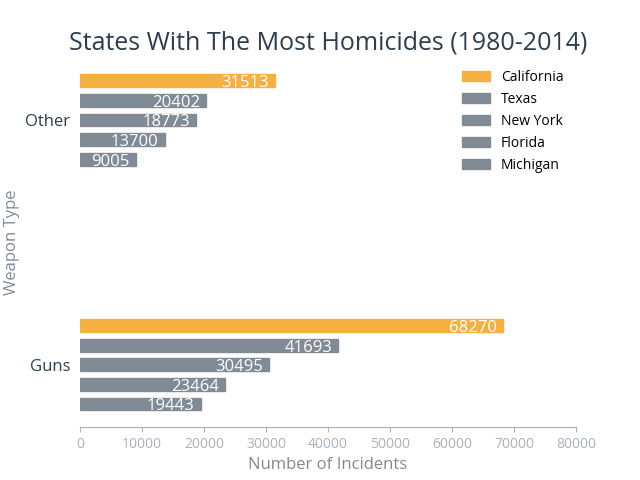
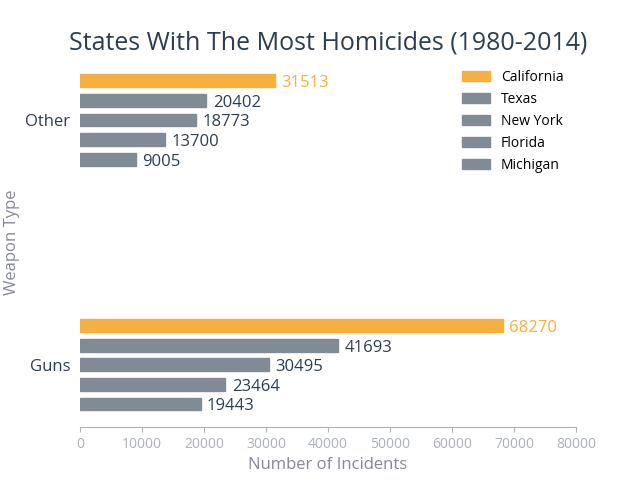
Added to the readme and fixed up some examples

diff --git a/explore.py b/explore.py
@@ -81,26 +81,26 @@ values = state_values
 
 
 #Labels
-#fig, ax = hplt.create_plot()
+fig, ax = hplt.create_plot()
 #hplt.barh(labels, values, highlight='California', bar_labels=values)
 #hplt.show()
 
-#hplt.barh(labels, values, highlight='California', bar_labels='%')
-#hplt.show()
+hplt.barh(labels, values, highlight='California', bar_labels='%', bar_labels_pos='in')
+hplt.show()
 
 #2d example
 #fig, ax = hplt.create_plot()
 #hplt.barh(['Group 1', 'Group 2'], [[1,2,3], [5,4,3]], highlight='Group 1')
 #hplt.show()
 
-#labels = weapon_labels
-#values = state_weapon_values #2d array [[1, 2, 3], [3, 2, 1]]
-#hplt.barh(labels, values, highlight=[[4],[4]], bar_labels=values, bar_labels_pos='in')
-#hplt.title("States With The Most Homicides (1980-2014)")
-#hplt.ylabel("Weapon Type")
-#hplt.xlabel("Number of Incidents")
-#hplt.legend(['medium','medium','medium','medium','primary'], ['Michigan', 'Florida', 'New York', 'Texas', 'California'], loc='upper right', layout='v')
-#hplt.show()
+labels = weapon_labels
+values = state_weapon_values #2d array [[1, 2, 3], [3, 2, 1]]
+hplt.barh(labels, values, highlight=[[4],[4]], bar_labels=values)
+hplt.title("States With The Most Homicides (1980-2014)")
+hplt.ylabel("Weapon Type")
+hplt.xlabel("Number of Incidents")
+hplt.legend(['medium','medium','medium','medium','primary'], ['Michigan', 'Florida', 'New York', 'Texas', 'California'], loc='upper right', layout='v')
+hplt.show()
 
 #hplt.bar(weapon_labels, weapon_values, highlight=weapon_highlight, color='secondary', show_data_axis=True, bar_labels='%', bar_labels_pos='in', highlight_tick=False)
 #hplt.show()
@@ -136,10 +136,11 @@ ydata = [year_df[year_df.index == 1980], year_df[year_df.index == 1985],
           year_df[year_df.index == 2010]]
 ydata = [y.values[0] for y in ydata]
 
-#hplt.plot(['a','b','c','d', 'e'], [2,3,1,6,5],  highlight=[['a','b'],['c','d'],['c','e']])
+#xdata is the years 1980, 1985,... 2010
+#ydata is the number of homicides for each year in xdata 
 hplt.plot(xdata, ydata, highlight=[[1995, 2000]], line_label='Murder Trend')
-hplt.title("Homocide Trends In The US (1980-2010)")
-hplt.ylabel("Number of Homocides")
+hplt.title("Homicide Trends In The US (1980-2010)")
+hplt.ylabel("Number of Homicides")
 hplt.xlabel("Year")
 hplt.show()
 

diff --git a/README.md b/README.md
@@ -1,8 +1,8 @@
-##Hedgeplot
+## Hedgeplot
 Hedgeplot is a simple wrapper for matplotlib for making clean, easy to read charts to use in presentations. The styles are inspired by the book Storytelling with Data, by Cole Nussbaumer Knaflic.
 The name hedgeplot comes from the animal hedgehog.
 
-###Requirements
+### Requirements
 Note: The default font for hedgeplot uses [Open Sans](https://fonts.google.com/specimen/Open+Sans) . If you don’t have it, you can follow [these instructions](https://gist.github.com/lightonphiri/5811226a1fba0b3df3be73ff2d5b351c) to install it.
 
 You will probably have to rebuild matplotlib’s font cache before matplotlib notices it.
@@ -13,17 +13,103 @@ mpl.font_manager._rebuild()
 
 This is an ongoing project and is still very small and informal right now.
 
-###Examples
+### Examples
+These examples use data from FBI's Supplementary Homicide Report. This dataset was downloaded from [Kaggle](https://www.kaggle.com/murderaccountability/homicide-reports).
+
+Basic bar graph with matplotlib (number of homicide incidents with guns vs. all other types of weapons):
+
 ```
+labels = ['Guns', 'Others']
+values = [53821, 24922]
+
 fig, ax = plt.subplots()
 ax.bar(labels, values)
 plt.show()
 ```
 
+![alt text](https://github.com/jonathanshuai/hedgeplot/blob/master/examples/mpl_basic_weapon.png?raw=true)
+
+Hedgeplot removes the clutter (like the box around the chart and the independent variable axis) and lightens up the tick labels:
 ```
-#fig, ax = hplt.create_plot()
-#hplt.bar(labels, values)
-#hplt.show()
+fig, ax = hplt.create_plot()
+hplt.bar(labels, values)
+hplt.show()
 ```
 
+![alt text](https://github.com/jonathanshuai/hedgeplot/blob/master/examples/hplt_basic_weapon.png?raw=true)
 
+
+You can choose to highlight a label, which will turn the other bars grey:
+
+```
+hplt.bar(labels, values, color='secondary', highlight='Guns')
+```
+
+![alt text](https://github.com/jonathanshuai/hedgeplot/blob/master/examples/hplt_seconday_highlight.png?raw=true)
+
+
+The highlight parameter can also take in either a list of labels or a list of indices. These two barplots produce the same result:
+
+```
+labels = state_labels # ['Michigan', 'Florida', 'New York', 'Texas', 'California']
+values = state_values # number of homicides in each state from 1980-2014 
+
+hplt.bar(labels, values, highlight=['California', 'New York'])
+hplt.bar(labels, values, highlight=[4, 2])
+```
+
+![alt text](https://github.com/jonathanshuai/hedgeplot/blob/master/examples/hplt_highlight_2_state.png?raw=true)
+
+We can add labels to the bars quite easily (this works with vertical barplots too):
+```
+hplt.barh(labels, values, highlight='California', bar_labels=values)
+```
+
+![alt text](https://github.com/jonathanshuai/hedgeplot/blob/master/examples/hplt_hbar_label.png?raw=true)
+
+The labels can be a list of strings too. 
+
+Passing in a % sign will calculate percentages of the total for each bar:
+```
+hplt.barh(labels, values, highlight='California', bar_labels='%')
+```
+
+![alt text](https://github.com/jonathanshuai/hedgeplot/blob/master/examples/hplt_percent_label.png?raw=true)
+
+Note that the horizontal bar chart plots bars from bottom to top.
+
+Passing in a 2d array for the values will create two groups of bars; with the rows as groups:
+```
+hplt.barh(['Group 1', 'Group 2'], [[1,2,3], [5,4,3]], highlight='Group 1', bar_label_pos='in')
+hplt.show()
+```
+
+![alt text](https://github.com/jonathanshuai/hedgeplot/blob/master/examples/hplt_2d_basic_example.png)
+
+For a more complete example:
+```
+labels = weapon_labels #['Guns', 'Others']
+values = state_weapon_values #2d array: [guns deaths per state, other deaths per state]
+hplt.barh(labels, values, highlight=[[4],[4]], bar_labels=values) #Highlight the 4th index for each group
+hplt.title("States With The Most Homicides (1980-2014)") #Create a title
+hplt.ylabel("Weapon Type") #Create a label for the y axis
+hplt.xlabel("Number of Incidents") #Create a label for the x axis
+hplt.legend(['medium','medium','medium','medium','primary'], 
+['Michigan', 'Florida', 'New York', 'Texas', 'California'], 
+loc='upper right', layout='v') #Create a legend. medium and primary will be explained more in the colors section
+```
+
+![alt text](https://github.com/jonathanshuai/hedgeplot/blob/master/examples/complicated1.png?raw=true)
+
+Example with line plot highlighting intervals:
+```
+#xdata is the years 1980, 1985,... 2010
+#ydata is the number of homicides for each year in xdata 
+hplt.plot(xdata, ydata, highlight=[[1995, 2000]], line_label='Murder Trend')
+hplt.title("Homicide Trends In The US (1980-2010)")
+hplt.ylabel("Number of Homicides")
+hplt.xlabel("Year")
+hplt.show()
+```
+
+![alt text](https://github.com/jonathanshuai/hedgeplot/blob/master/examples/hplot_line_example.png?raw=true)
